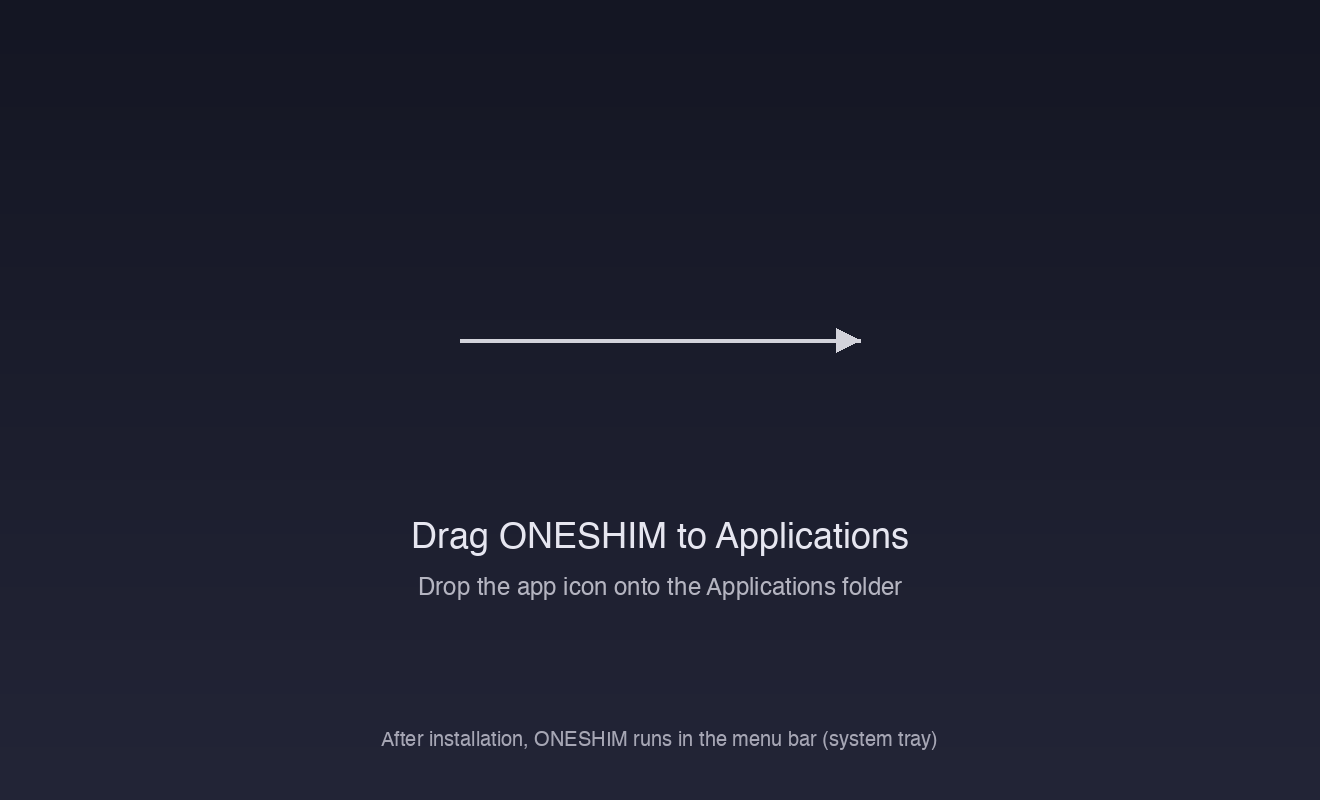
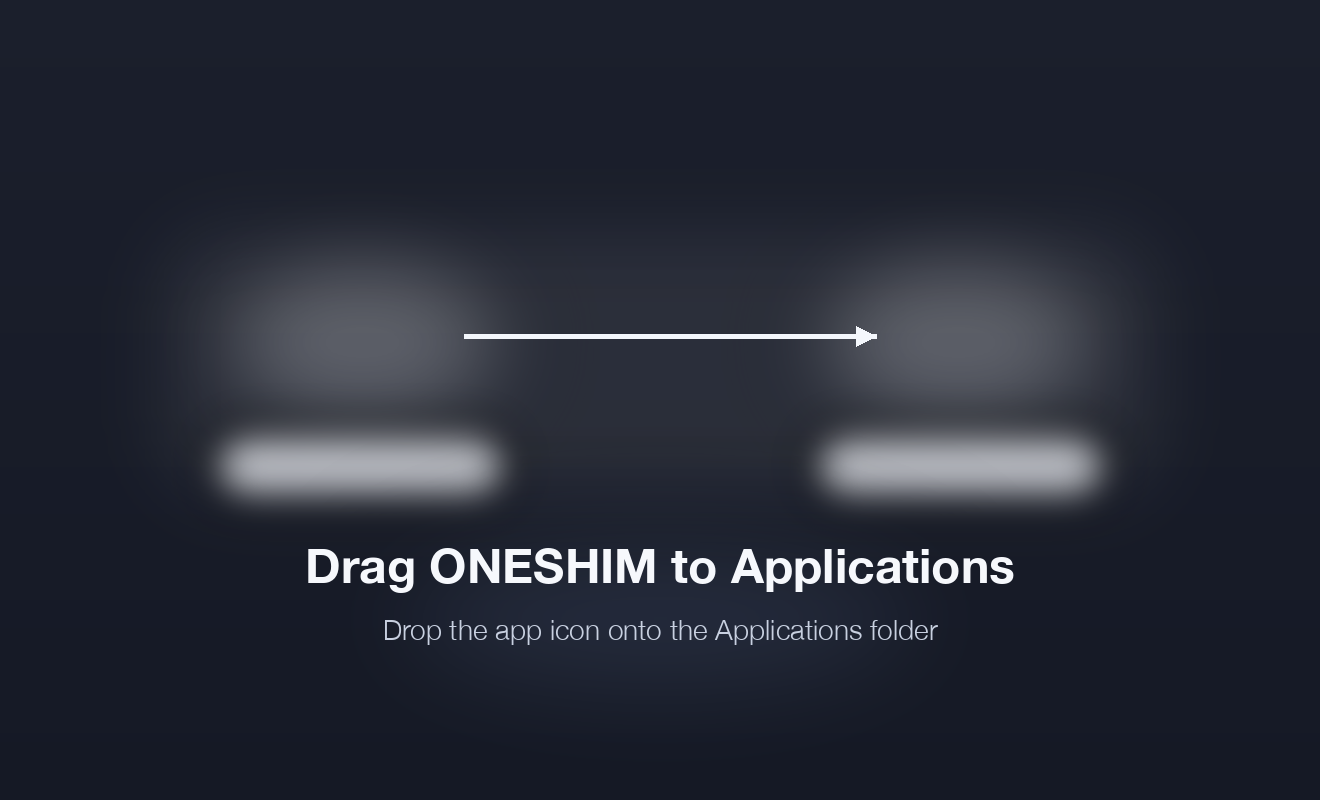
fix(installer): improve dmg background contrast and text clarity

Changed region(s): [[0.1553, 0.2812, 0.8697, 0.75], [0.2795, 0.9062, 0.7144, 0.9375], [0.2795, 0.7812, 0.7144, 0.8125]]

diff --git a/scripts/generate_dmg_background.py b/scripts/generate_dmg_background.py
@@ -1,0 +1,192 @@
+#!/usr/bin/env python3
+
+from pathlib import Path
+
+from PIL import Image, ImageDraw, ImageFilter, ImageFont
+
+
+REPO_ROOT = Path(__file__).resolve().parent.parent
+OUT_1X = REPO_ROOT / "src-tauri" / "dmg-background.png"
+OUT_2X = REPO_ROOT / "src-tauri" / "[email redacted]"
+
+SIZE_1X = (660, 400)
+SCALE = 2
+SIZE_2X = (SIZE_1X[0] * SCALE, SIZE_1X[1] * SCALE)
+
+FONT_PATH = "/System/Library/Fonts/HelveticaNeue.ttc"
+FONT_REGULAR = 0
+FONT_BOLD = 1
+FONT_LIGHT = 7
+
+
+def lerp(a: int, b: int, t: float) -> int:
+    return round(a + (b - a) * t)
+
+
+def vertical_gradient(size: tuple[int, int], top: tuple[int, int, int], bottom: tuple[int, int, int]) -> Image.Image:
+    width, height = size
+    image = Image.new("RGBA", size)
+    pixels = image.load()
+    for y in range(height):
+        t = y / max(height - 1, 1)
+        row = tuple(lerp(top[i], bottom[i], t) for i in range(3)) + (255,)
+        for x in range(width):
+            pixels[x, y] = row
+    return image
+
+
+def scaled_box(box: tuple[float, float, float, float], scale: int) -> tuple[int, int, int, int]:
+    return tuple(round(v * scale) for v in box)
+
+
+def rounded_panel(
+    image: Image.Image,
+    box: tuple[float, float, float, float],
+    radius: float,
+    fill: tuple[int, int, int, int],
+    blur: float,
+    scale: int,
+) -> None:
+    overlay = Image.new("RGBA", image.size, (0, 0, 0, 0))
+    draw = ImageDraw.Draw(overlay)
+    draw.rounded_rectangle(scaled_box(box, scale), radius=round(radius * scale), fill=fill)
+    overlay = overlay.filter(ImageFilter.GaussianBlur(radius=blur * scale))
+    image.alpha_composite(overlay)
+
+
+def ellipse_glow(
+    image: Image.Image,
+    box: tuple[float, float, float, float],
+    fill: tuple[int, int, int, int],
+    blur: float,
+    scale: int,
+) -> None:
+    overlay = Image.new("RGBA", image.size, (0, 0, 0, 0))
+    draw = ImageDraw.Draw(overlay)
+    draw.ellipse(scaled_box(box, scale), fill=fill)
+    overlay = overlay.filter(ImageFilter.GaussianBlur(radius=blur * scale))
+    image.alpha_composite(overlay)
+
+
+def centered_text(
+    draw: ImageDraw.ImageDraw,
+    center_x: float,
+    top_y: float,
+    text: str,
+    font: ImageFont.FreeTypeFont,
+    fill: tuple[int, int, int, int],
+) -> None:
+    left, top, right, bottom = draw.textbbox((0, 0), text, font=font)
+    width = right - left
+    draw.text((center_x - width / 2, top_y), text, font=font, fill=fill)
+
+
+def draw_arrow(draw: ImageDraw.ImageDraw, scale: int) -> None:
+    y = round(168 * scale)
+    start_x = round(232 * scale)
+    end_x = round(438 * scale)
+    shaft_width = round(2.5 * scale)
+    head = round(10 * scale)
+    draw.line((start_x, y, end_x, y), fill=(244, 247, 252, 232), width=shaft_width)
+    draw.polygon(
+        [
+            (end_x, y),
+            (end_x - head, y - head // 2),
+            (end_x - head, y + head // 2),
+        ],
+        fill=(244, 247, 252, 232),
+    )
+
+
+def build_background(scale: int) -> Image.Image:
+    size = (SIZE_1X[0] * scale, SIZE_1X[1] * scale)
+    image = vertical_gradient(size, (27, 31, 44), (21, 25, 37))
+
+    rounded_panel(
+        image,
+        (68, 102, 592, 260),
+        radius=42,
+        fill=(255, 255, 255, 20),
+        blur=22,
+        scale=scale,
+    )
+    ellipse_glow(
+        image,
+        (98, 118, 264, 224),
+        fill=(255, 255, 255, 62),
+        blur=24,
+        scale=scale,
+    )
+    ellipse_glow(
+        image,
+        (396, 118, 562, 224),
+        fill=(255, 255, 255, 62),
+        blur=24,
+        scale=scale,
+    )
+    rounded_panel(
+        image,
+        (104, 214, 256, 252),
+        radius=18,
+        fill=(245, 247, 252, 185),
+        blur=10,
+        scale=scale,
+    )
+    rounded_panel(
+        image,
+        (404, 214, 556, 252),
+        radius=18,
+        fill=(245, 247, 252, 185),
+        blur=10,
+        scale=scale,
+    )
+    ellipse_glow(
+        image,
+        (178, 258, 482, 360),
+        fill=(126, 149, 193, 38),
+        blur=30,
+        scale=scale,
+    )
+
+    draw = ImageDraw.Draw(image)
+    draw_arrow(draw, scale)
+
+    title_font = ImageFont.truetype(FONT_PATH, 24 * scale, index=FONT_BOLD)
+    subtitle_font = ImageFont.truetype(FONT_PATH, 14 * scale, index=FONT_LIGHT)
+
+    centered_text(
+        draw,
+        center_x=330 * scale,
+        top_y=268 * scale,
+        text="Drag ONESHIM to Applications",
+        font=title_font,
+        fill=(246, 248, 252, 248),
+    )
+    centered_text(
+        draw,
+        center_x=330 * scale,
+        top_y=306 * scale,
+        text="Drop the app icon onto the Applications folder",
+        font=subtitle_font,
+        fill=(196, 205, 222, 236),
+    )
+
+    return image
+
+
+def main() -> None:
+    image_2x = build_background(SCALE)
+    image_1x = image_2x.resize(SIZE_1X, Image.Resampling.LANCZOS).filter(
+        ImageFilter.UnsharpMask(radius=1.0, percent=140, threshold=2)
+    )
+
+    OUT_2X.parent.mkdir(parents=True, exist_ok=True)
+    image_2x.save(OUT_2X)
+    image_1x.save(OUT_1X)
+
+    print(f"wrote {OUT_1X}")
+    print(f"wrote {OUT_2X}")
+
+
+if __name__ == "__main__":
+    main()